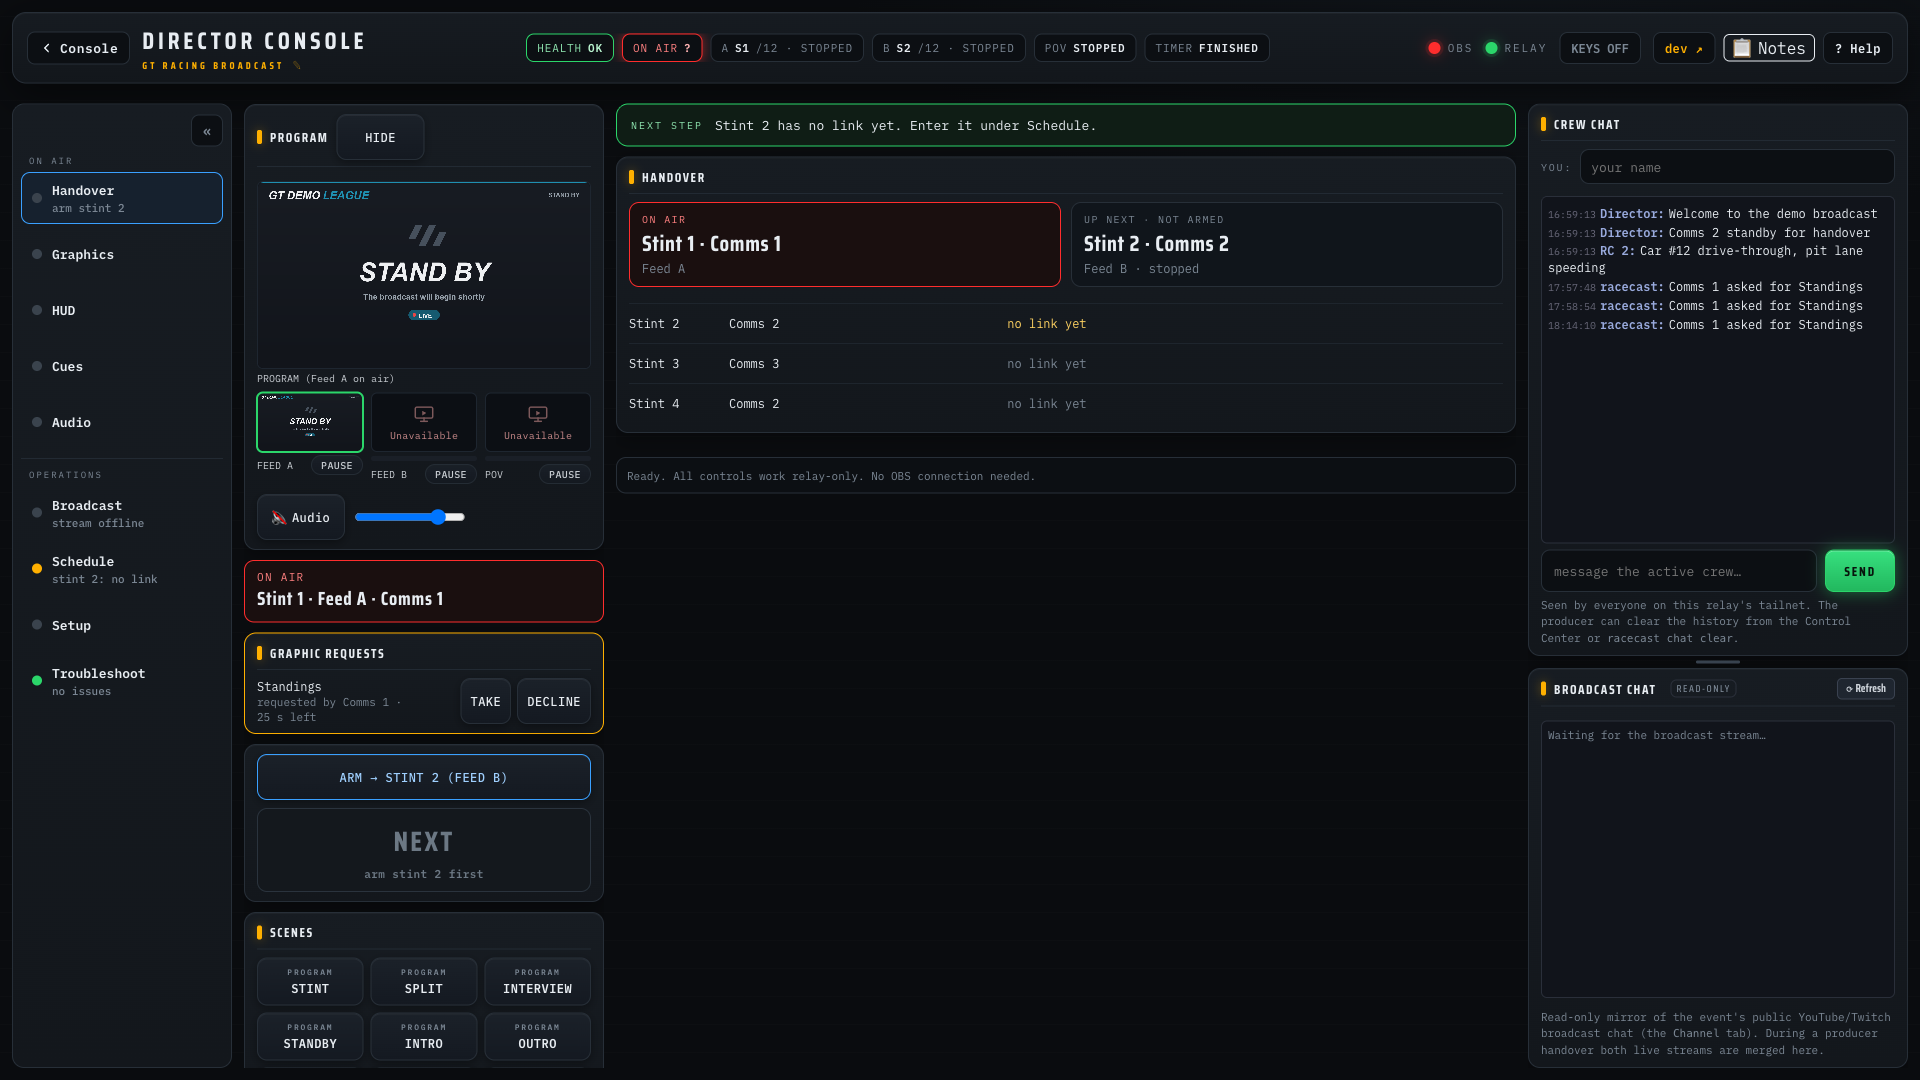
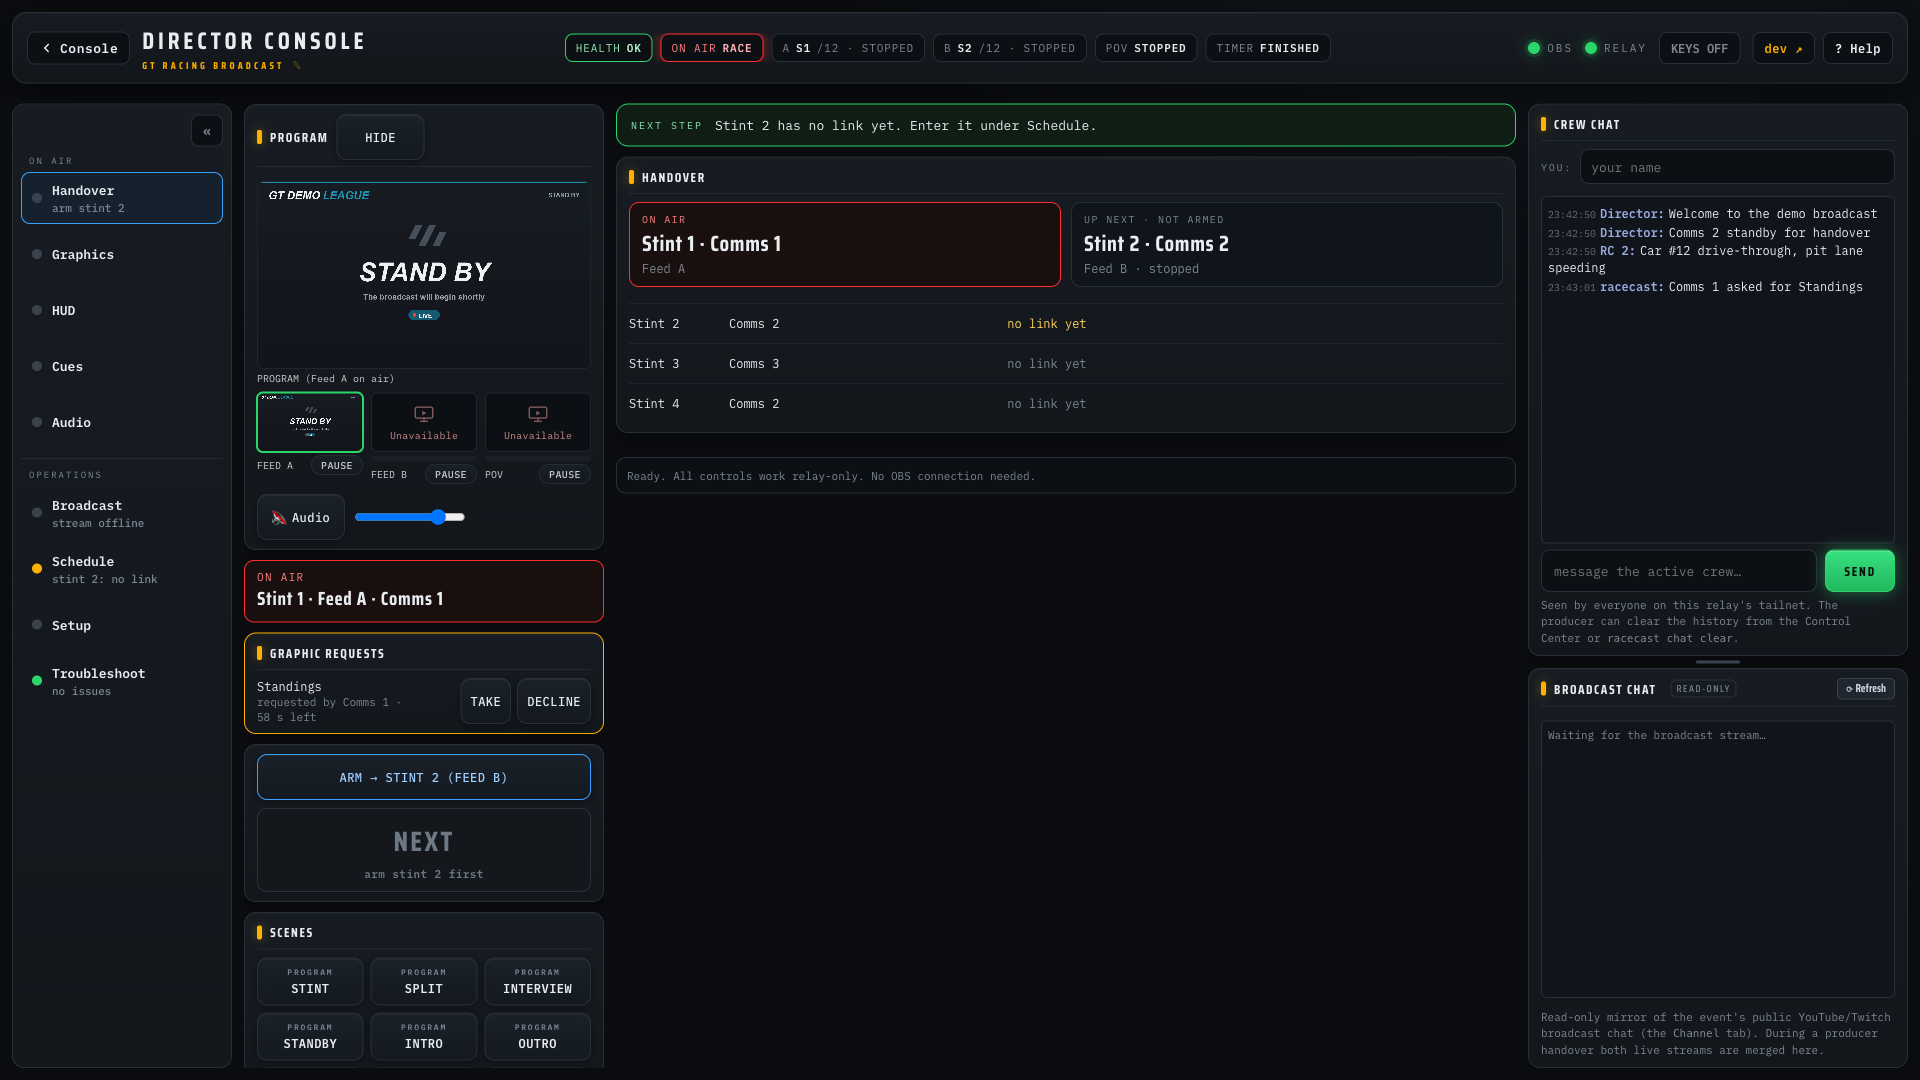
fix(panel): keep the OBS LED green with inputs OBS lacks and fit the header (#763)
* fix(panel): keep the OBS LED green with inputs OBS lacks and fit the header

- An audio input missing from the loaded OBS collection came back with a null
  volume, threw in the state poll and painted the OBS LED red.
- The collapsed area navigation shows each area's name and status reason on hover.
- The status pills switch to short forms, then tighter pills, then a row of their
  own, so no pill is cut.
- The crew take modes say what each one does.

* fix(panel): one comment for the feed state table and test every strip step

---------

Changed region(s): [[0.2812, 0.0306, 0.6875, 0.0611], [0.7188, 0.0306, 0.9375, 0.0611], [0.8125, 0.275, 0.9688, 0.3056]]

diff --git a/src/director/director-panel.html b/src/director/director-panel.html
@@ -84,6 +84,13 @@
     border-radius:8px;padding:6px 10px;font-size:11px;letter-spacing:.08em;color:var(--muted);text-transform:uppercase;white-space:nowrap}
   .st b{color:var(--ink);font-weight:600}
   .st[hidden]{display:none}
+  .strip.compact .stl{display:none}
+  .strip:not(.compact) .sts{display:none}
+  .strip.tight{gap:5px}
+  .strip.tight .st{padding:5px 7px;letter-spacing:.03em}
+  header:has(.strip.tight) .brand{font-size:20px;letter-spacing:.1em}
+  header.stripwrap{flex-wrap:wrap}
+  header.stripwrap .strip{order:9;flex:1 0 100%;justify-content:flex-start}
   .st.air{border-color:var(--air);color:#ff8080;box-shadow:0 0 12px var(--air-glow)}
   .st.air b{color:#ffb3b3}
   .st.ok{border-color:var(--live);color:#8fe6b0}
@@ -768,7 +775,7 @@
             <div class="keys" id="gfxGridBus"></div>
           </div>
           <div class="grp"><span class="glbl">Flag graphic, one active</span><div class="keys" id="flagGfxBus"></div></div>
-          <div class="grp"><span class="glbl">Crew takes <span id="takeLeague"></span></span>
+          <div class="grp"><span class="glbl">Crew graphic takes <span id="takeLeague"></span></span>
             <div class="takemode" data-role="commentator"><span>Commentator</span><div class="keys"></div></div>
             <div class="takemode" data-role="race_control"><span>Race Control</span><div class="keys"></div></div>
           </div>
@@ -1317,12 +1324,16 @@ loadGraphicCatalog();
 
 /* Crew graphic takes: the live mode per role and the requests waiting for the
    director. A mode change on the relay drops the open requests. */
-const TAKE_MODES = [["off", "OFF"], ["request", "REQUEST"], ["direct", "DIRECT"]];
+const TAKE_MODES = [
+  ["off", "OFF", "no takes", "The crew cannot put graphics on air."],
+  ["request", "REQUEST", "asks you", "The crew asks for a graphic. It waits under Graphic requests until you take or decline it."],
+  ["direct", "DIRECT", "crew takes", "The crew puts graphics on air itself."],
+];
 let takeModes = {};
 document.querySelectorAll(".takemode").forEach(row=>{
-  TAKE_MODES.forEach(([mode, label])=>{
-    const b = mkKey(label, "crew", ()=>setTakeMode(row.dataset.role, mode));
-    b.dataset.mode = mode; row.querySelector(".keys").appendChild(b);
+  TAKE_MODES.forEach(([mode, label, sub, help])=>{
+    const b = mkKey(label, sub, ()=>setTakeMode(row.dataset.role, mode));
+    b.dataset.mode = mode; b.title = help; row.querySelector(".keys").appendChild(b);
   });
 });
 function renderTakeModes(){
@@ -1829,7 +1840,7 @@ async function obsStatePoll(){
     for (const row of document.querySelectorAll(".arow")){
       const input = row.querySelector("input[type=range]").dataset.input;
       const a = obsState.audio.find(x=>x.input===input);
-      if (!a) continue;
+      if (!a || typeof a.volumeDb !== "number") continue;   // input not in this OBS collection
       const mbtn = row.querySelector(".mute");
       mbtn.classList.toggle("muted", !!a.muted);
       mbtn.textContent = a.muted ? "Muted" : "Mute";
@@ -1860,10 +1871,10 @@ function renderAir(visState){
 
 
 /* Relay status strip, which works without OBS */
-/* state -> [pill suffix, pill css class]. Durations and staleness come from the
-   relay (state_age_s, cookies_health); this file only renders. */
-const FEED_STATE = {serving:["LIVE","ok"], connecting:["CONN","warn"],
-                    idle:["IDLE",""], stopped:["STOPPED",""]};
+/* state -> [pill suffix, pill css class, short suffix for a narrow header]. Durations
+   and staleness come from the relay (state_age_s, cookies_health); this file only renders. */
+const FEED_STATE = {serving:["LIVE","ok","LIVE"], connecting:["CONN","warn","CONN"],
+                    idle:["IDLE","","IDLE"], stopped:["STOPPED","","STOP"]};
 function fmtDur(s){
   s = Math.max(0, Math.floor(s));
   const h = Math.floor(s/3600), mi = Math.floor(s%3600/60), sec = s%60;
@@ -1919,11 +1930,30 @@ function healthLine(name, f){
   return "";
 }
 function statePill(el, label, stint, n, state, down){
-  let [txt, cls] = FEED_STATE[state] || ["", ""];
-  if (down){ txt = "DOWN"; cls = "air"; }     // lost live serve -> red pill
+  let [txt, cls, short] = FEED_STATE[state] || ["", "", ""];
+  if (down){ txt = short = "DOWN"; cls = "air"; }     // lost live serve -> red pill
   el.className = "st" + (cls ? " " + cls : "");
-  el.innerHTML = label + " <b>" + stint + "</b>" + (n ? "/" + n : "") + (txt ? " · " + txt : "");
+  el.innerHTML = label + " <b>" + stint + "</b>"
+    + '<span class="stl">' + (n ? "/" + n : "") + (txt ? " · " + txt : "") + "</span>"
+    + (short ? '<span class="sts">' + short + "</span>" : "");
 }
+// Full pills when they fit, then short forms, then tighter pills, and last a row of
+// their own, so no pill is ever cut.
+function fitStrip(){
+  const s = $(".strip"), h = s.parentElement;
+  const over = () => s.scrollWidth > s.clientWidth;
+  h.classList.remove("stripwrap");
+  s.classList.remove("compact", "tight");
+  if (over()) s.classList.add("compact");
+  if (over()) s.classList.add("tight");
+  if (over()){
+    s.classList.remove("compact", "tight");
+    h.classList.add("stripwrap");
+    if (over()) s.classList.add("compact");
+  }
+}
+new ResizeObserver(fitStrip).observe($(".strip").parentElement);
+new MutationObserver(fitStrip).observe($(".strip"), {childList:true, subtree:true, characterData:true});
 /* Event title (#207): header display and inline editor */
 const BRAND_SUB_STATIC = "GT RACING BROADCAST";
 let eventTitle = "", editingTitle = false;
@@ -2025,10 +2055,11 @@ async function relayPoll(){
     }
     if (d.pov){
       const ps = d.pov.state || "";                       // guard: version-skewed relay
-      let [txt, cls] = FEED_STATE[ps] || [ps.toUpperCase(), ""];
-      if (d.pov.down){ txt = "DOWN"; cls = "air"; }
+      let [txt, cls, short] = FEED_STATE[ps] || [ps.toUpperCase(), "", ps.toUpperCase()];
+      if (d.pov.down){ txt = short = "DOWN"; cls = "air"; }
       $("#stPov").className = "st" + (cls ? " " + cls : "");
-      $("#stPov").innerHTML = "POV <b>" + (txt || "—") + "</b>";
+      $("#stPov").innerHTML = 'POV <b><span class="stl">' + escapeHtml(txt || "—")
+        + '</span><span class="sts">' + escapeHtml(short || "—") + "</span></b>";
     } else { $("#stPov").className = "st"; $("#stPov").innerHTML = "POV <b>—</b>"; }
     if (povVisBtn) povVisBtn.classList.toggle("on", !!(d.pov && d.pov.shown));
     if (teleVisBtn){                      // /status carries telemetry only for solo POV
@@ -3210,6 +3241,7 @@ function showArea(name){
   if (name === "schedule"){ schedPoll(); qualPoll(); subsPoll(); }
 }
 document.querySelectorAll(".navbtn").forEach(b => b.addEventListener("click", () => showArea(b.dataset.area)));
+document.querySelectorAll(".navbtn").forEach(b => navTitle(b));
 
 function applyNavCollapse(){
   const collapsed = NAV_AUTO.matches || recall(NAV_KEY) === "1";
@@ -3335,11 +3367,18 @@ $("#nextBtn").addEventListener("click", () => {
   relayCall(`next?transition=${activeTransition}&duration=${activeTransition === "cut" ? 0 : activeDuration}`);
 });
 
+function navTitle(b){
+  const name = b.querySelector(".nlbl").firstChild.textContent.trim();
+  const why = b.querySelector(".nwhy").textContent;
+  b.title = why ? name + " · " + why : name;
+  b.setAttribute("aria-label", b.title);
+}
 function setNav(area, level, why){
   const b = document.querySelector(`.navbtn[data-area="${area}"]`);
   if (!b) return;
   b.querySelector(".ndot").className = "ndot" + (level ? " " + level : "");
   b.querySelector(".nwhy").textContent = why || "";
+  navTitle(b);
 }
 function faultReasons(d){
   const out = [];

diff --git a/tests/test_director_panel.py b/tests/test_director_panel.py
@@ -670,6 +670,51 @@ def t_breakpoints():
     assert "@media(max-width:899px)" in h, "one column below 900"
 
 
+def t_obs_poll_survives_an_input_missing_from_obs():
+    html = _html()
+    poll = html[html.index("async function obsStatePoll"):]
+    poll = poll[:poll.index("renderAir(visState)")]
+    assert re.search(r'if \(!a \|\| typeof a\.volumeDb !== "number"\) continue;', poll), \
+        "an input OBS lacks (volumeDb null) must be skipped, not throw and paint the OBS LED red"
+
+
+def t_collapsed_nav_buttons_carry_their_name_as_tooltip():
+    html = _html()
+    assert re.search(r'\.navbtn"\)\.forEach\(b\s*=>\s*navTitle\(b\)\)', html), \
+        "every nav button needs its title set on load"
+    fn = html[html.index("function setNav("):]
+    fn = fn[:fn.index("\n}\n")]
+    assert "navTitle(b)" in fn, "a status reason must reach the tooltip too"
+    nt = html[html.index("function navTitle("):]
+    nt = nt[:nt.index("\n}\n")]
+    assert "aria-label" in nt and "b.title" in nt, "the tooltip doubles as the accessible name"
+
+
+def t_status_pills_shorten_instead_of_clipping():
+    html = _html()
+    assert re.search(r"\.strip\.compact \.stl\{display:none\}", html), "compact mode hides the long text"
+    assert re.search(r"\.strip:not\(\.compact\) \.sts\{display:none\}", html), "full mode hides the short text"
+    assert re.search(r'stopped:\["STOPPED",\s*"",\s*"STOP"\]', html), "each feed state needs a short form"
+    assert "new ResizeObserver(fitStrip)" in html, "the strip re-fits when the header width changes"
+    fit = html[html.index("function fitStrip("):]
+    fit = fit[:fit.index("\n}\n")]
+    assert fit.index('add("compact")') < fit.index('add("tight")') < fit.index('add("stripwrap")'), \
+        "the strip steps down short forms, then tighter pills, then its own row"
+    assert re.search(r"header\.stripwrap \.strip\{[^}]*flex:1 0 100%", html), "the last step gives the strip a full row"
+    for pill in ('"#stPov"', "statePill("):
+        assert pill in html
+
+
+def t_crew_take_modes_explain_themselves():
+    html = _html()
+    assert "Crew graphic takes" in html, "the take-mode group needs a heading that says what it controls"
+    modes = html[html.index("const TAKE_MODES"):]
+    modes = modes[:modes.index("];")]
+    assert modes.count("[") == 4 and modes.count('"') >= 18, \
+        "each mode needs a key label, a short meaning and a tooltip"
+    assert "b.title = help" in html, "the long meaning goes into the key tooltip"
+
+
 if __name__ == "__main__":
     for name, fn in sorted(globals().items()):
         if name.startswith("t_") and callable(fn):

diff --git a/src/docs/wiki/Director.md b/src/docs/wiki/Director.md
@@ -71,7 +71,7 @@ Where each bus lives:
 | **TRANS** (live column) | transition selector for the next scene switch. **Cut**, **Fade** (default), or **Stinger** |
 | **GFX** (Graphics area) | graphics toggles (HUD, standings, schedule, results, weather, covers) |
 | **FLAG GFX** | mutually exclusive flag-status graphic overlays, exactly one active at a time (or none); distinct from the flag-text chip in the HUD |
-| **CREW TAKES** (Graphics area) | the live take mode per crew role, **Commentator** and **Race Control**: `OFF`, `REQUEST` or `DIRECT`. It starts from the league's `GRAPHICS_TAKE` and returns to it when the relay restarts. Changing a mode drops the open requests |
+| **CREW GRAPHIC TAKES** (bottom of the Graphics area) | the live take mode per crew role, **Commentator** and **Race Control**: `OFF` (no takes), `REQUEST` (the crew asks, you take or decline) or `DIRECT` (the crew takes graphics itself). Each key explains its mode on hover. It starts from the league's `GRAPHICS_TAKE` and returns to it when the relay restarts. Changing a mode drops the open requests |
 | **TIMER** (HUD area) | the race timer ([Race Timer](Race-Timer)) |
 | **AUDIO** (Audio area) | per-source dB sliders, 0 dB reset and mutes; includes an **Intermission Music** fader for the music track in the Intermission scene |
 | **URLs** (Schedule area) | the editor for the schedule and POV URLs, next to the commentators' link submissions |
